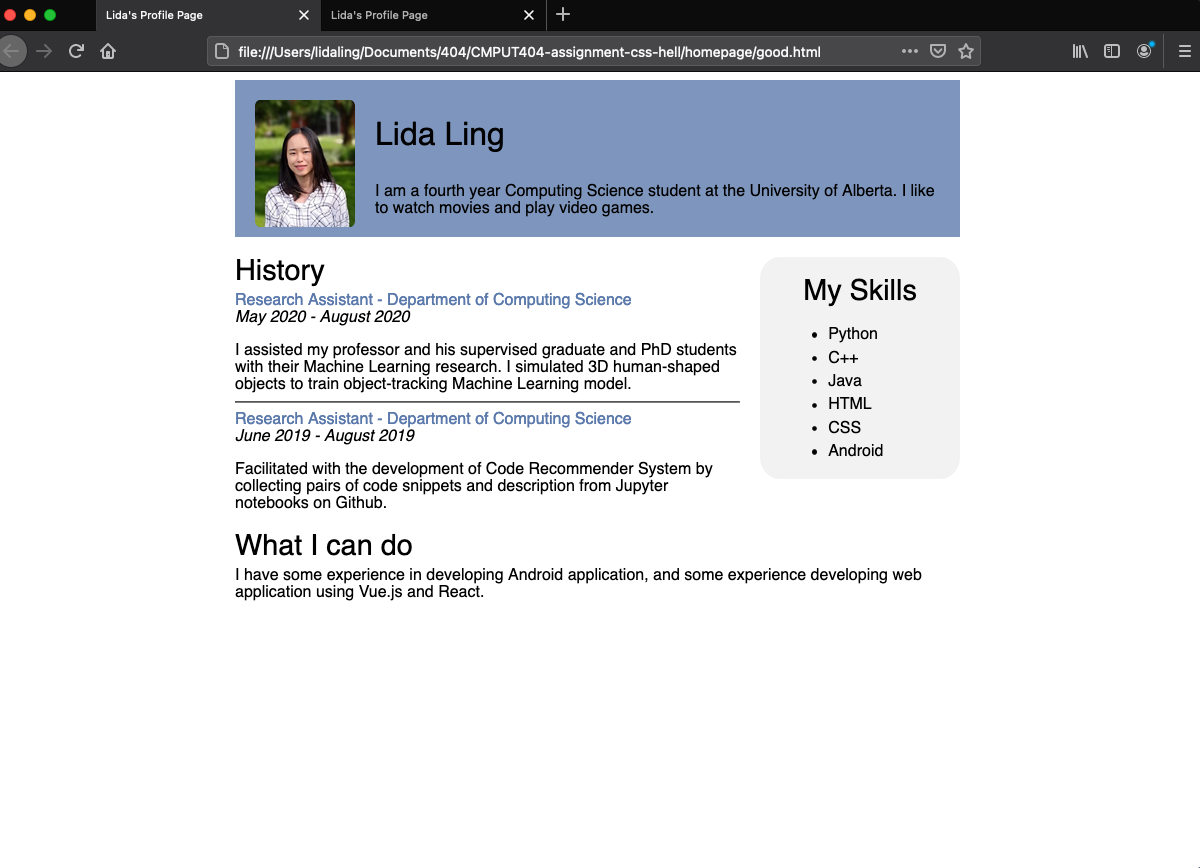
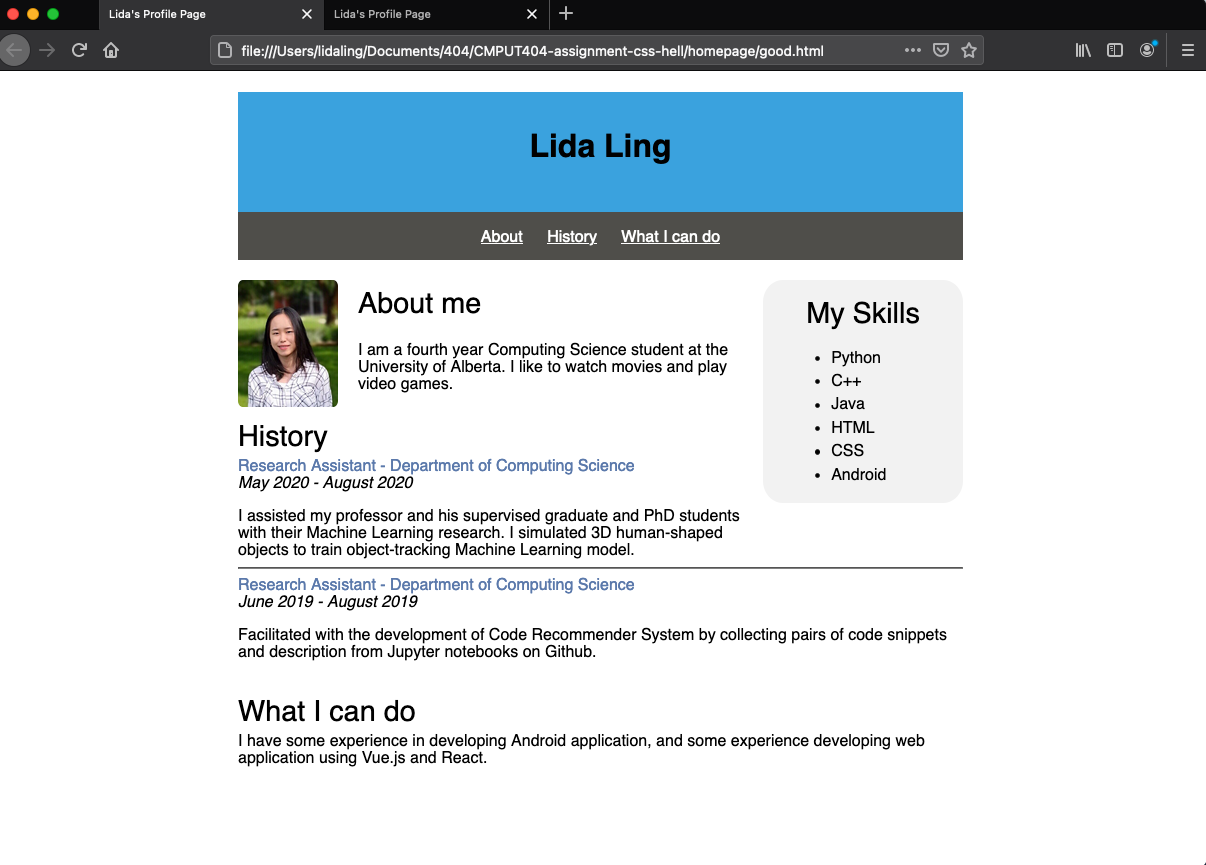
update css

diff --git a/homepage/ugly.css b/homepage/ugly.css
@@ -1,18 +1,17 @@
 .content {
-	font-family: Cursive;
-	margin-left: 10%;
-	margin-right: 10%;
+	font-family: Monospace;
 	max-width: 725px;
 	margin: auto;
 }
 img {
 	width: 100px;
 	border-radius: 5%;
-	margin: 20px;
+	margin-right: 20px;
+	margin-top: 20px;
 	float: left;
 }
 .section {
-	padding: 20px;
+	padding: 10px;
 }
 .section-title {
 	font-size: 180%;
@@ -24,11 +23,46 @@ img {
 	font-size: 200%;
 	margin-bottom: 30px;
 }
+.msg {
+	height:40px;
+	width: 400px;
+	background-color: pink;
+	padding-top: 10px;
+	position: relative;
+	top: -50px;
+}
+h1 {
+	text-align: center;
+	padding: 40px;
+}
+a {
+	padding: 10px;
+}
+a:hover {
+	background-color: #d9bd4e;
+}
+a:visited, a:link {
+	color: black; 
+}
+.about, .history, .experience {
+	position: relative;
+	top: -70px;
+}
+.navigation {
+	padding-top: 1px;
+	padding-bottom: 7px;
+	background-image: linear-gradient(#f0ed5b, #e09448);
+	text-align: center;
+	height: 40px;
+	width: 500px;
+	margin: auto;
+	position: relative;
+	top: -50px;
+}
 
-.intro-section {
+.header {
 	background: radial-gradient(#30f0e9, #468cdb);
-	height: 100%;
-	border: 1px solid black;
+	height: 160px;
 }
 .job-title{
 	color: #468cdb;
@@ -44,7 +78,7 @@ li {
 }
 
 .sidebar {
-	background-color: white;
+	background-color: #f5d142;
 	margin-left: 20px;
 	margin-right: 8px;
 	width: 200px;
@@ -53,19 +87,6 @@ li {
 	float: right;
 	margin-top: 20px;
 	margin-bottom: 30px;
-	box-shadow: 3px 5px 3px 5px #888888;
-}
-
-.history {
-	border: 1px solid black;
-	background-color: #7dc991;
-	padding-bottom: 10px;
-}
-
-.experience {
-	border: 1px solid black;
-	background-color: #b48bcc;
-	padding-bottom: 10px;
 }
 
 .timeframe {

diff --git a/homepage/ugly.html b/homepage/ugly.html
@@ -6,19 +6,15 @@
 </head>
 <body>
 	<div class='content'>
-		<div class="intro-section">
-			<div>
-				<img src="image/photo.jpeg">
-			</div>
-			<div class="section">
-				<div class="name">
-					Lida Ling
-				</div>
-				<div class="section-content">
-					I am a fourth year Computing Science student at the University of Alberta. I like to watch movies and play video games.
-				</div>
-			</div>
-			
+		<div class="header">
+			<h1>Lida Ling</h1>
+		</div>
+		<div class="navigation">
+			<p>
+				<a href="#about">About</a>
+				<a href="#history">History</a>
+				<a href="#experience">What I can do</a>
+			</p>
 		</div>
 		<div class="sidebar">
 			<div class="skills">
@@ -35,7 +31,22 @@
 				</ul>
 			</div>
 		</div>
-		<div class="history">
+		<p class="msg"> WELCOME TO MY WEBSITE!</p>
+		<div class='about' id='about'>
+			<div>
+				<img src="image/photo.jpeg">
+			</div>
+			<div class="section">
+				<div class="section-title">
+					About me
+				</div>
+				<br/>
+				<div class="section-content">
+					I am a fourth year Computing Science student at the University of Alberta. I like to watch movies and play video games.
+				</div>
+			</div>
+		</div>
+		<div class="history" id="history">
 			<div class="section-title">
 				History
 			</div>
@@ -60,7 +71,8 @@
 			</div>
 			
 		</div>
-		<div class="experience">
+		<br/>
+		<div class="experience" id='experience'>
 			<div class="section-title">
 				What I can do
 			</div>

diff --git a/homepage/good.html b/homepage/good.html
@@ -6,19 +6,15 @@
 </head>
 <body>
 	<div class='content'>
-		<div class="intro-section">
-			<div>
-				<img src="image/photo.jpeg">
-			</div>
-			<div class="section">
-				<div class="name">
-					Lida Ling
-				</div>
-				<div class="section-content">
-					I am a fourth year Computing Science student at the University of Alberta. I like to watch movies and play video games.
-				</div>
-			</div>
-			
+		<div class="header">
+			<h1>Lida Ling</h1>
+		</div>
+		<div class="navigation">
+			<p>
+				<a href="#about">About</a>
+				<a href="#history">History</a>
+				<a href="#experience">What I can do</a>
+			</p>
 		</div>
 		<div class="sidebar">
 			<div class="skills">
@@ -35,7 +31,21 @@
 				</ul>
 			</div>
 		</div>
-		<div class="history">
+		<div class='about' id='about'>
+			<div>
+				<img src="image/photo.jpeg">
+			</div>
+			<div class="section">
+				<div class="section-title">
+					About me
+				</div>
+				<br/>
+				<div class="section-content">
+					I am a fourth year Computing Science student at the University of Alberta. I like to watch movies and play video games.
+				</div>
+			</div>
+		</div>
+		<div class="history" id="history">
 			<div class="section-title">
 				History
 			</div>
@@ -60,7 +70,8 @@
 			</div>
 			
 		</div>
-		<div class="experience">
+		<br/>
+		<div class="experience" id='experience'>
 			<div class="section-title">
 				What I can do
 			</div>

diff --git a/homepage/good.css b/homepage/good.css
@@ -1,34 +1,49 @@
 .content {
 	font-family: Sans-serif;
-	margin-left: 10%;
-	margin-right: 10%;
 	max-width: 725px;
 	margin: auto;
 }
 img {
 	width: 100px;
 	border-radius: 5%;
-	margin: 20px;
+	margin-right: 20px;
+	margin-top: 20px;
 	float: left;
 }
 .section {
-	padding: 20px;
+	padding: 10px;
 }
 .section-title {
 	font-size: 180%;
 	margin-bottom: 5px;
 	margin-top: 20px;
 }
-.name {
-	margin-top: 20px;
-	font-size: 200%;
-	margin-bottom: 30px;
+h1 {
+	text-align: center;
+	padding: 40px;
+}
+a {
+	padding: 10px;
+}
+a:hover {
+	background-color: #d9bd4e;
+}
+a:visited, a:link {
+	color: white; 
+}
+.navigation {
+	padding-top: 1px;
+	padding-bottom: 7px;
+	background-color: #4f4e4a;
+	text-align: center;
+	height: 40px;
 }
 
-.intro-section {
-	background-color: #7e96bd;
-	height: 100%;
+.header {
+	background-color: #3aa2de;
+	height: 120px;
 }
+
 .job-title{
 	color: #5b79ab;
 }
